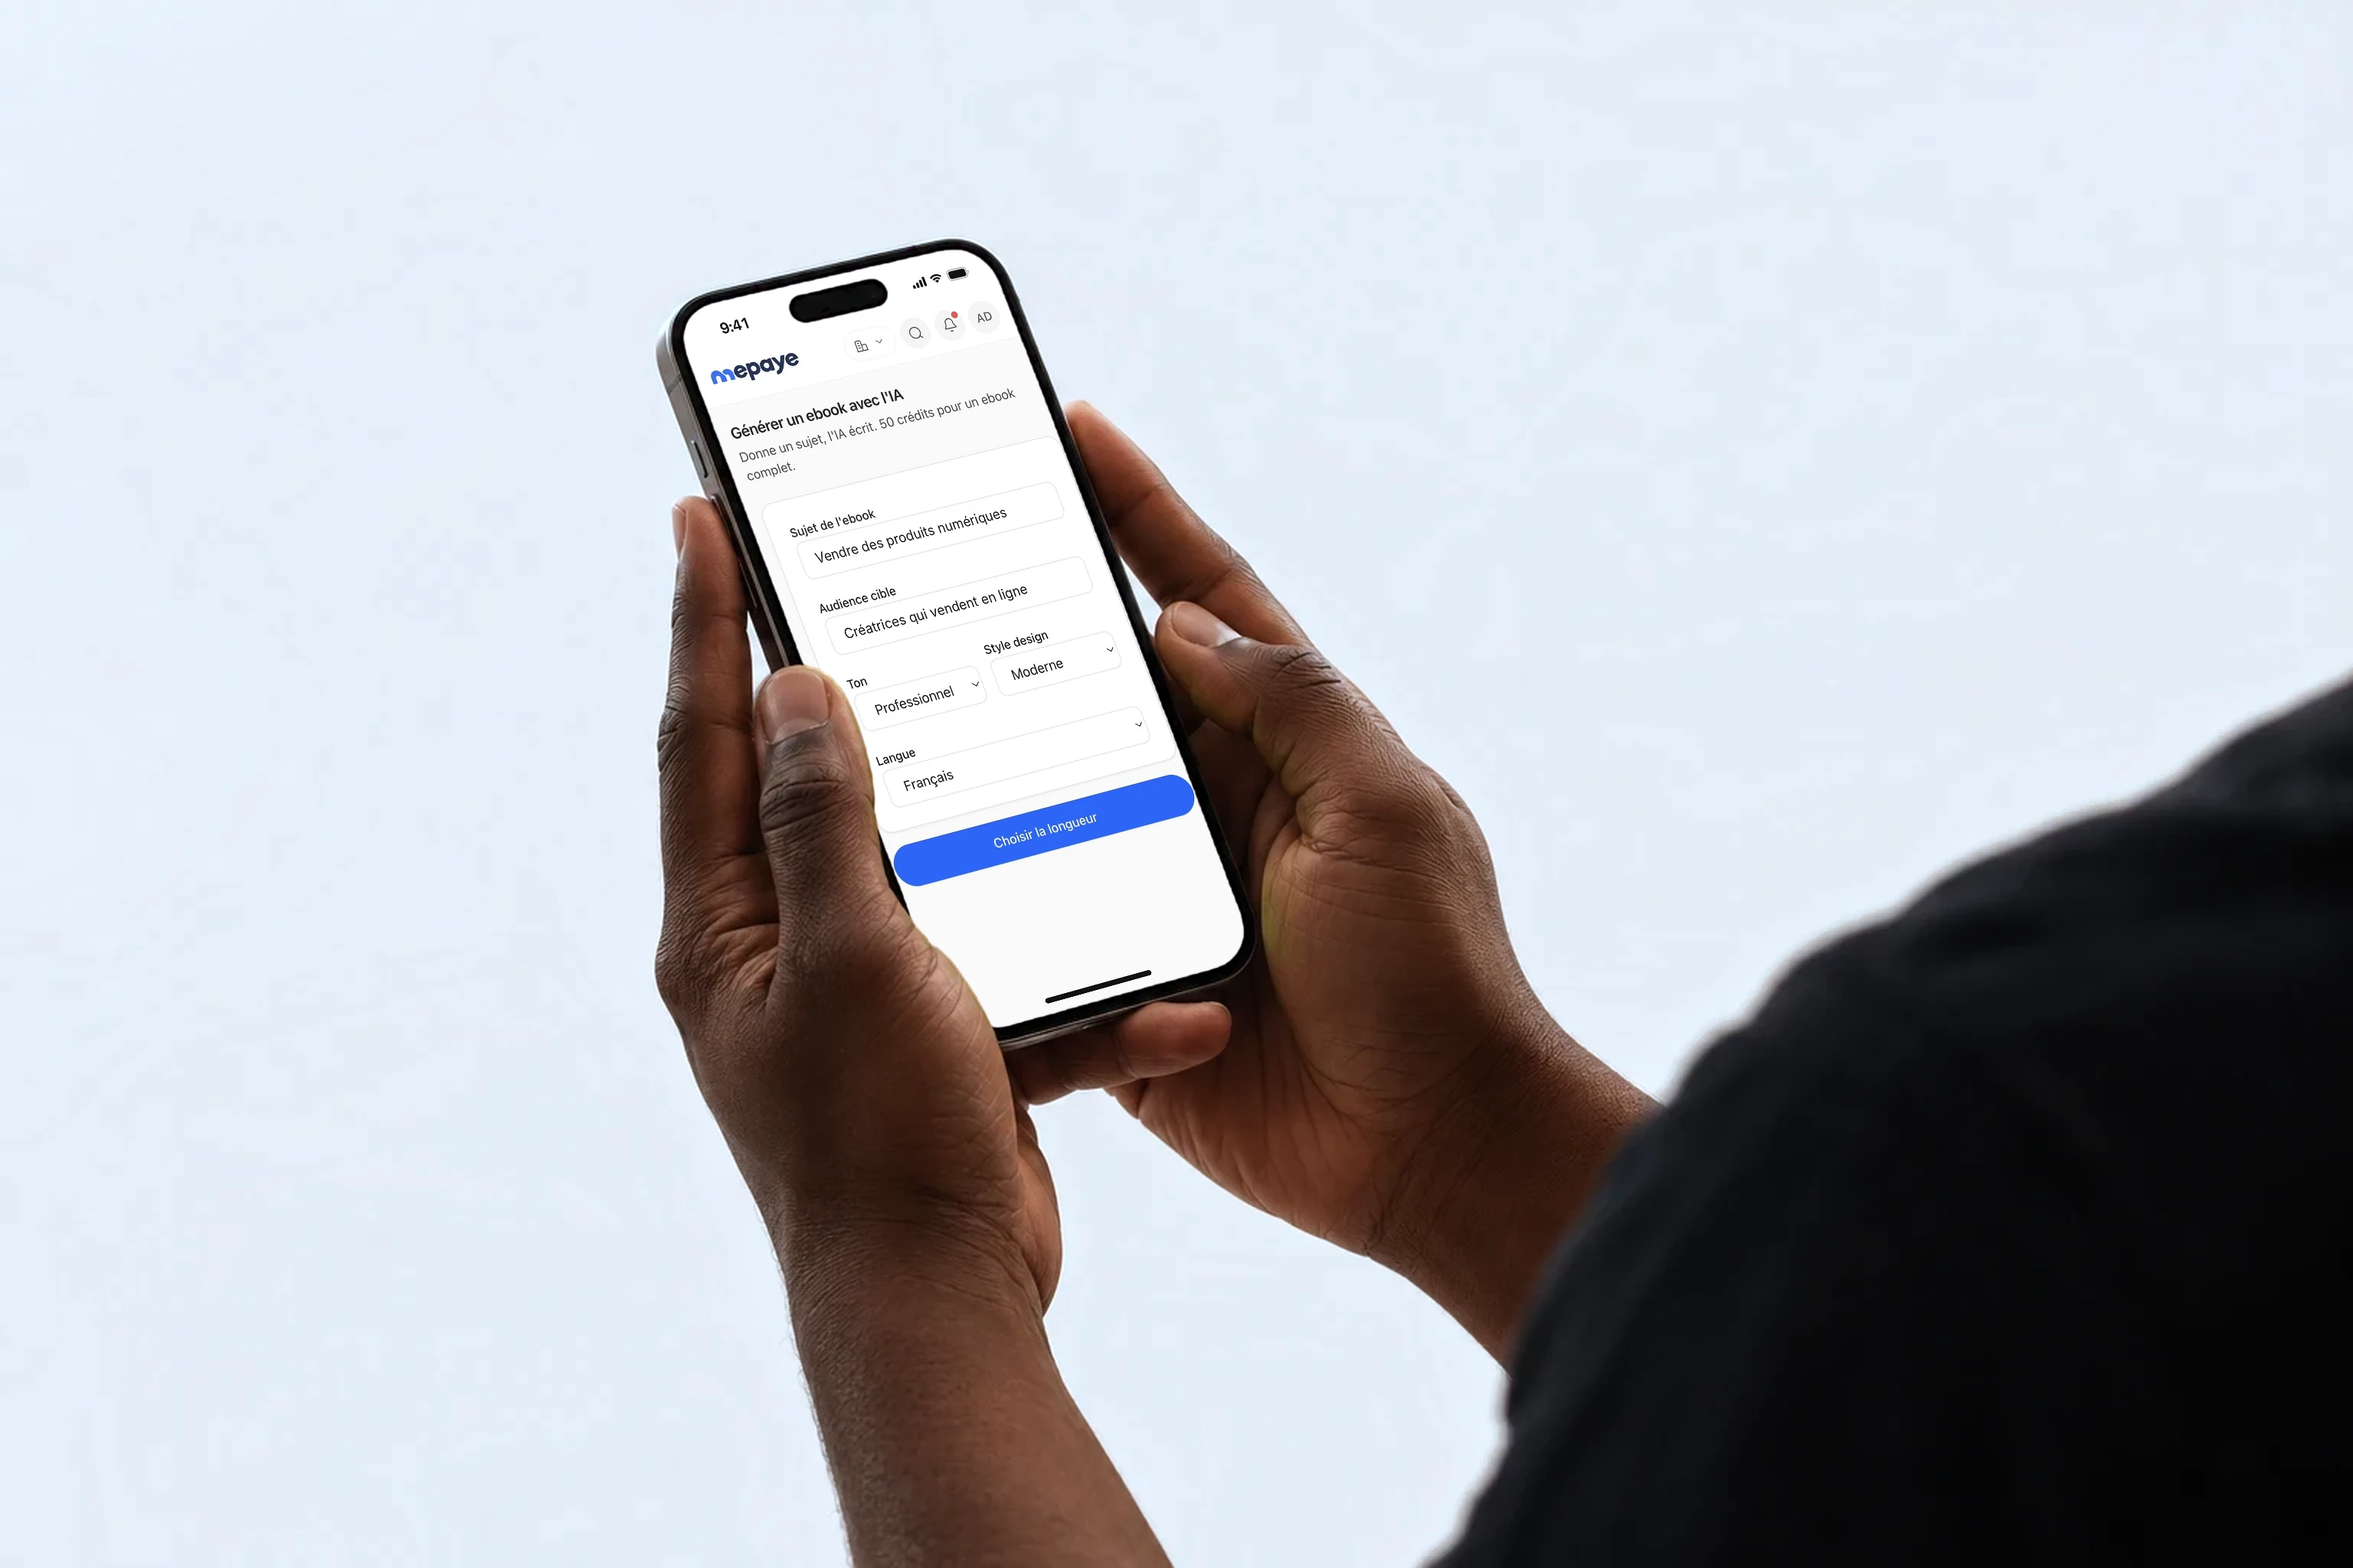
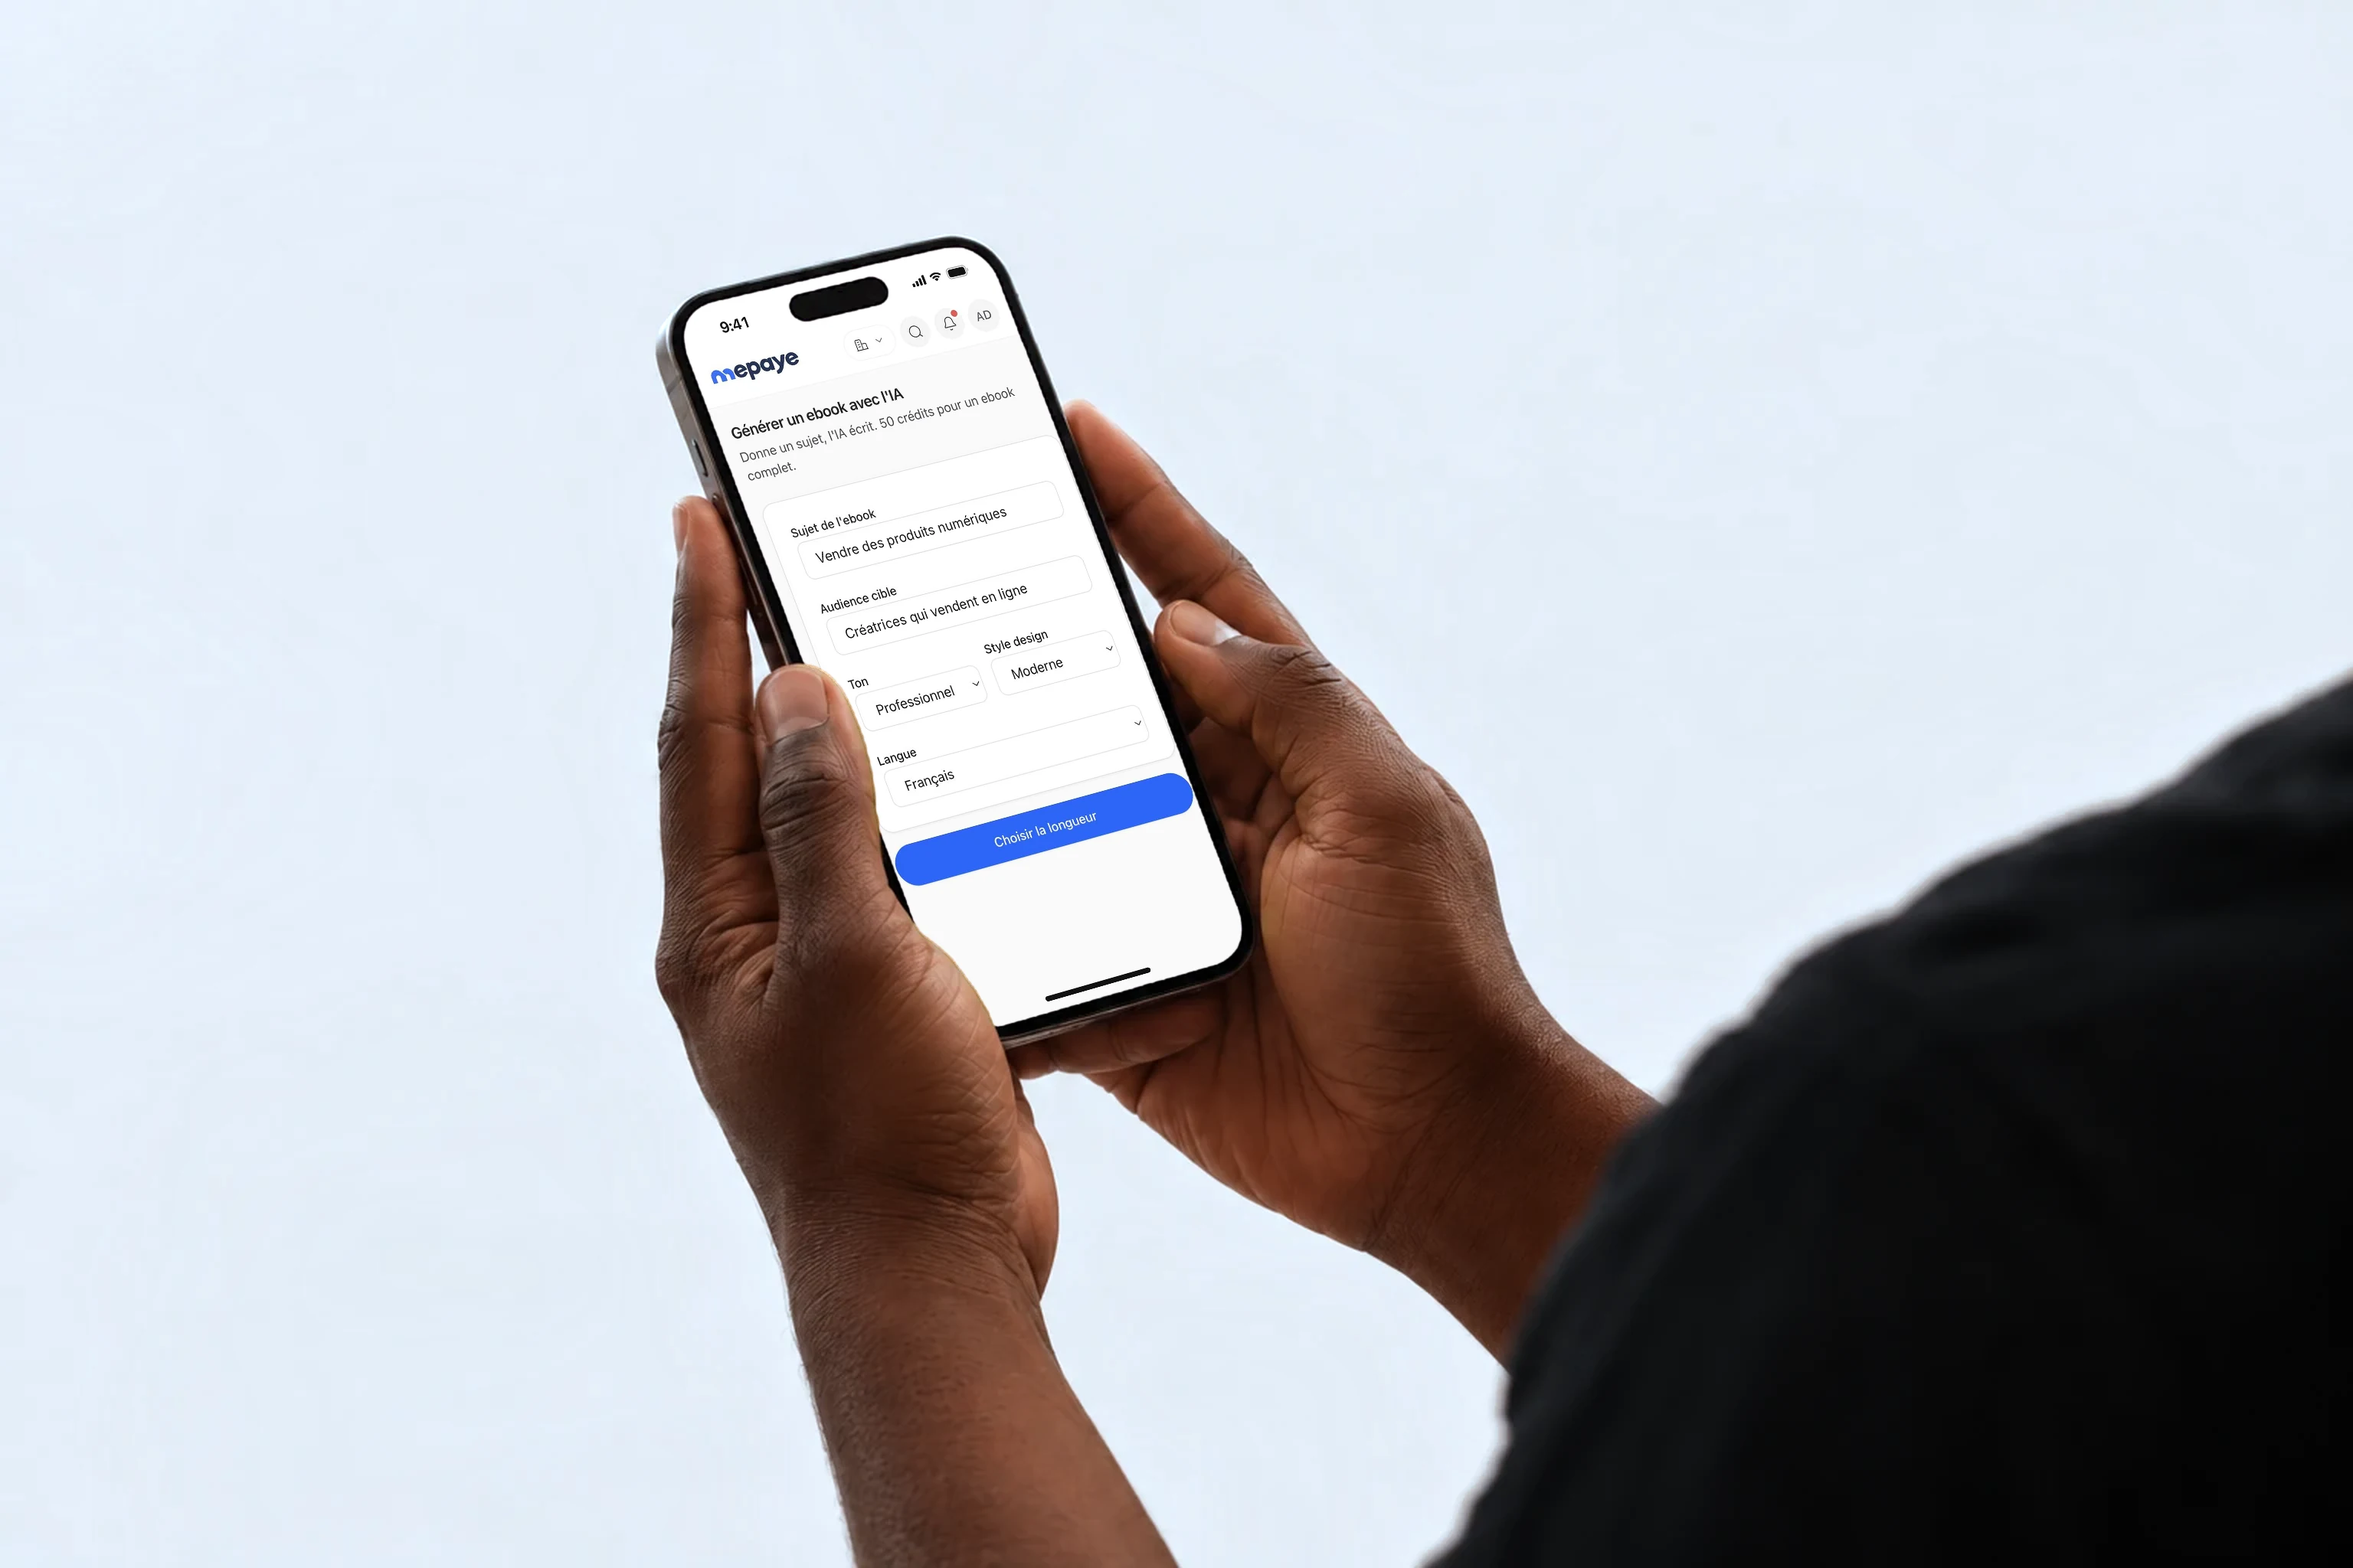
Section Création : version retouchée de la photo (main gauche plus naturelle)
Claude-Session: https://claude.ai/code/session_01WF1VizXfKDtoFhs7FXrbow

diff --git a/site/index.html b/site/index.html
@@ -154,7 +154,7 @@
     <section class="sec" id="creation" aria-labelledby="creation-t">
       <div class="wrap">
         <header class="sh"><p class="sh__k">Création</p><h2 class="sh__t" id="creation-t">Décrive<span class="lz">z</span> votre idée.<br>Mepaye rédige.</h2><p class="sh__p">Notre IA transforme une simple idée en ebook ou en formation structurée : plan, chapitres, leçons. Vous gardez la main, vous publiez quand vous voulez.</p></header><div class="chiprow"><span class="chip chip--tl"><span class="chip__ic" style="--c:#F5B000"><svg aria-hidden="true"><use href="#l-list"/></svg></span>Plan</span><span class="chip chip--tr"><span class="chip__ic" style="--c:#5B4FE0"><svg aria-hidden="true"><use href="#l-doc"/></svg></span>Chapitres</span><span class="chip chip--bl"><span class="chip__ic" style="--c:#0866FF"><svg aria-hidden="true"><use href="#l-cap"/></svg></span>Leçons</span><span class="chip chip--br"><span class="chip__ic" style="--c:#16A36A"><svg aria-hidden="true"><use href="#l-pen"/></svg></span>Rédaction</span></div>
-        <div class="panel panel--mock panel--mock-blue"><img class="scene scene--mock" src="assets/r/creation-1200-2122a03d.webp" srcset="assets/r/creation-800-2122a03d.webp 800w, assets/r/creation-1200-2122a03d.webp 1200w, assets/r/creation-1700-2122a03d.webp 1700w, assets/r/creation-2400-2122a03d.webp 2400w, assets/r/creation-3072-2122a03d.webp 3072w" sizes="(max-width: 760px) 196vw, min(1200px, 92vw)" alt="Deux mains tiennent un iPhone qui affiche la génération d'un ebook par l'IA de Mepaye" width="3072" height="2048" loading="lazy" decoding="async" style="--mpos:47%"></div>
+        <div class="panel panel--mock panel--mock-blue"><img class="scene scene--mock" src="assets/r/creation-1200-949fad74.webp" srcset="assets/r/creation-800-949fad74.webp 800w, assets/r/creation-1200-949fad74.webp 1200w, assets/r/creation-1700-949fad74.webp 1700w, assets/r/creation-2400-949fad74.webp 2400w, assets/r/creation-3072-949fad74.webp 3072w" sizes="(max-width: 760px) 196vw, min(1200px, 92vw)" alt="Deux mains tiennent un iPhone qui affiche la génération d'un ebook par l'IA de Mepaye" width="3072" height="2048" loading="lazy" decoding="async" style="--mpos:47%"></div>
       </div>
     </section>
 
